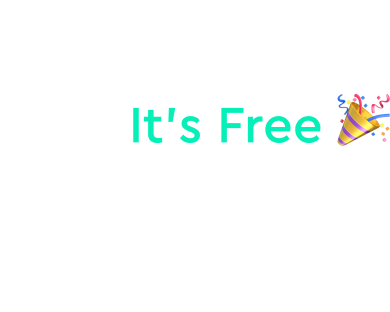
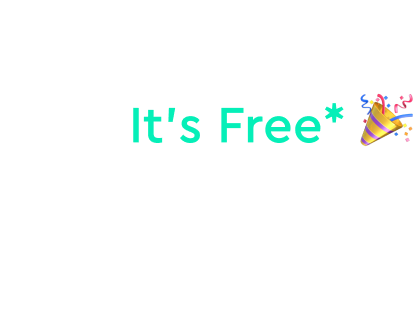
latest changes adeed

Changed region(s): [[0.3077, 0.3173, 0.8308, 0.4615], [0.8615, 0.2885, 1.0, 0.4904]]

diff --git a/resources/js/Pages/feed/AddPost.jsx b/resources/js/Pages/feed/AddPost.jsx
@@ -52,9 +52,8 @@ export default function AddPost({item, text, classes, isEdit, updateState}) {
     const [loading, setLoading] = useState(false);
     const submitPost = (e) => { 
         e && e.preventDefault();
-        
-        if(!rewardImage){
-            toast.error("Please chhose a media image for this post.");
+        if(rewardImage == '' || rewardImage == null){
+            toast.error("Please choose a media image for this post.");
             return false
         }
         setLoading(true);
@@ -116,18 +115,15 @@ export default function AddPost({item, text, classes, isEdit, updateState}) {
                 <GlobalUploader ref={uploaderRef} view={false} type="minimal" sendFile={getfile} options={st.post} />
             </div>
 
-                {/* { rewardImage ? <> */}
-                        <p className="text-grey-500 mb-1 mt-4" >Choose Audience</p>
-                        <div className="flex align-center justify-content-center flex-wrap" >
-                            <select id="countries" defaultValue={item?.for_module} onChange={handleInput} name="for_module" class="form-input  
-                            text-md w-full focus:ring-green-50 block ">
-                                {/* <option value="everyone">Everyone</option> */}
-                                <option value="membership">Memberships</option>
-                                <option value="subscription">Subscription</option>
-                                <option value="support">Supporters</option>
-                            </select>
-                        </div>
-                {/* </> :''  } */}
+                    <p className="text-grey-500 mb-1 mt-4" >Choose Audience</p>
+                    <div className="flex align-center justify-content-center flex-wrap" >
+                        <select id="countries" defaultValue={item?.for_module} onChange={handleInput} name="for_module" class="form-input  
+                        text-md w-full focus:ring-green-50 block ">
+                            <option value="membership">Memberships</option>
+                            <option value="subscription">Subscription</option>
+                            <option value="support">Supporters</option>
+                        </select>
+                    </div>
 
                      <LoaderButton onClick={submitPost}
                         disabled={loading}

diff --git a/resources/js/includes/Footer.jsx b/resources/js/includes/Footer.jsx
@@ -1,10 +1,10 @@
 import React from "react";
-import footlogo from "../../assets/img/footlogo.png";
+import footlogo from "../../assets/img/logo.png";
 import { Link, usePage } from "@inertiajs/react";
 import { Helmet } from "react-helmet";
 import { useEffect } from "react";
 import { LazyLoadImage } from "react-lazy-load-image-component";
-const ContentPrefrences = React.lazy(() => import("./ContentPrefrences"));
+// import spennypiggy from "../../assets/img/logo.png";
 
 export default function Footer(props) {
     
@@ -126,8 +126,8 @@ export default function Footer(props) {
 
                 <div id="footer" className="footer">
                     <div className="containerbox">
-                        <div className="footlogo m-auto d-table">
-                            <LazyLoadImage className="rounded-4 p-2 px-3 blackbg "
+                        <div className="footlogo py-2 m-auto d-table">
+                            <LazyLoadImage className="rounded-4 p-3 blackbg "
                                 alt={"image"}
                                 height={"auto"}
                                 src={footlogo}
@@ -160,7 +160,7 @@ export default function Footer(props) {
                                         <a href="https://blog.spennypiggy.co"> Blog</a>
                                     </li>
                                     <li>
-                                        <Link target="_blank" href="https://www.notion.so/9d23c0290e9d4dcaa3b3511bc67cb30e?v=082ffd064479442e8f11a061aad6c945&pvs=4"> Terms </Link>
+                                        <a target="_blank" href="https://ucarecdn.com/bac24059-121e-4e2c-8867-54f634e11778/terms.pdf"> Terms </a>
                                     </li>
                                     <li>
                                         <Link href={route("promotion-terms")}> Promotion Terms</Link>

diff --git a/resources/css/home.css b/resources/css/home.css
@@ -503,7 +503,8 @@ ul.socialmedia li svg{width:25px !important;height:24px !important;}
 .col-reverse{flex-direction:row-reverse;}
 .livebar p{font-size:18px;text-transform:uppercase;}
 .barouter{width:100%;overflow:hidden;}
-.proud-banner{position:absolute;bottom:0;max-width:180px;}
+.proud-banner{position:absolute;bottom:0; }
+.proud-banner img { max-width:180px;}
 .heroSec{background-position:center center;background-size:cover;}
 .percent-eight{position:absolute;top:50%;left:50%;opacity:0.7;transform:translate(-50%,-50%);}
 .percent-eight-text{position:relative;z-index:1;}
@@ -714,6 +715,24 @@ html body .intercom-lightweight-app-launcher{margin-bottom:70px !important;}
 .e8_tag > div{width:100% !important;border-bottom:0 !important;border-right:0 !important;}
 .videoBg{max-width:100%;height:270px;}
 .wishlistbtn .itsfree-tag{right:0;top:80px;}
+
+.wishlistbtn .itsfree-tag {
+  max-width: 120px;
+}
+.proud-banner {
+  max-width: 88%;
+  justify-content: center;
+}
+
+.proud-banner img {
+  max-width: 120px;
+}
+.proud-banner {
+  align-items: end;
+}
+.proud-banner p {
+  font-size: 12px;
+}
 }
 @media(max-width:575px){
 .wishManage .rts___btn{ font-size:16px; }

diff --git a/resources/js/wishlist/Userprofile.jsx b/resources/js/wishlist/Userprofile.jsx
@@ -48,10 +48,13 @@ export default function Userprofile({ IsloggedIn }) {
                 </div>
                 
 
-                { !IsloggedIn ? user && user.stripe_details_submitted == 1 && 
+                {!IsloggedIn ? user && user.stripe_details_submitted == 1 && 
                     <div>
-                        <SendTip  />
-                        {user && user.role == 1 ? <p className="text-center text-mint" >🐷 {supporters} Supporters</p> : ''}
+                        {user && user.role == 1 ? 
+                        <>
+                            <SendTip  />
+                            {user && user.role == 1 ? <p className="text-center text-mint" >🐷 {supporters} Supporters</p> : ''}
+                        </> : ''}
                     </div>
                     :  
                     <div>

diff --git a/resources/js/Pages/TipJar/MyGoal.jsx b/resources/js/Pages/TipJar/MyGoal.jsx
@@ -25,7 +25,7 @@ export default function MyGoal({goal}) {
         <p className='mb-3 '>Total Earnings</p>
         {/* {goal.days ? <p className='mb-3 text-voilet '>{goal.days > 1 ? `${goal.days} Days` : `${goal.days} Day`} left to goal ends.</p> : ''} */}
         <ProgressBar now={goal?.fullfilled}  max={goal?.target} />
-        <p className='text-muted text-small mt-2' >{getPercentage(goal?.target, goal?.fullfilled)}% of {formatMultiPrice(goal?.target, goal?.currency)} goal.</p>
+        <p className='text-muted text-small mt-2' >{formatMultiPrice(goal?.target, goal?.currency)} earned.</p>
       </div>
     </div>
     </>

diff --git a/resources/js/Pages/home/Hero.jsx b/resources/js/Pages/home/Hero.jsx
@@ -122,7 +122,11 @@ export default function Hero({auth}) {
                   
               </div>
           </div>
-          <img className="proud-banner"  alt={"image"} src={proud}  />
+
+          <div className="proud-banner d-flex  items-center w-full max-w-[500px]" >
+            <img  className='object-contain' alt={"image"} src={proud}  />
+            <p className='text-white ps-4 pb-3' >*Requires a monthly £4 subscription to cover stripe fees & compliance costs.</p>
+          </div>
         </div>
       </div>
     </>

diff --git a/resources/js/Pages/feed/Post.jsx b/resources/js/Pages/feed/Post.jsx
@@ -97,7 +97,7 @@ export default function Post({item, updateState}) {
         : ''}
 
         <div>
-          <p className="description text-dark mt-3 mb-1"><b>{item?.title || ''}</b></p>
+          <p className="description text-dark mt-3 mb-1 pe-5"><b>{item?.title || ''}</b></p>
           <p className="description text-muted">{item?.content || ''}</p>
         </div>
 

diff --git a/resources/views/app.blade.php b/resources/views/app.blade.php
@@ -9,13 +9,13 @@
 
     {!! \App\SeoMeta::render() !!}
     
-    <meta property="twitter:card" content="summary_large_image" />
+    {{-- <meta property="twitter:card" content="summary_large_image" />
     <meta property="twitter:title" content="Exclusive Content, Memberships & More!" />
-    <meta property="twitter:description" content="Send tributes, adopt bills & more. Safe for Spicy Creators who receive 100% payouts!" />
+    <meta property="twitter:description" content="Join Memberships, adopt bills & more. Safe for all Creators who receive 100% payouts!" />
     <meta property="twitter:image" content="{{ URL::asset('/siteicon.png') }}" />
     <meta property="twitter:site" content="@spennypiggy" />
     <meta property="twitter:image:alt" content="Exclusive Content, Memberships & More!" />
-    <meta property="twitter:image:src" content="{{ URL::asset('/siteicon.png') }}" />
+    <meta property="twitter:image:src" content="{{ URL::asset('/siteicon.png') }}" /> --}}
 
     <link rel="canonical" href="https://spennypiggy.co" />
     <meta name="viewport" content="width=device-width,initial-scale=1" />
@@ -65,7 +65,75 @@
             }
         }
     </script>
-    
+  
+  <script async type="application/ld+json">
+    {
+      "@context": "https://schema.org",
+      "@type": "Organization",
+      "name": "Spenny Piggy",
+      "alternateName": "Exclusive Content, Memberships & More!",
+      "url": "https://spennypiggy.co/",
+      "logo": "https://d36ape3u423eoo.cloudfront.net/329a3236-4b42-40ed-abf7-61da55dbcb22/build/assets/logo-164abf9b.png",
+      "sameAs": [
+        "https://www.facebook.com/spennypiggy",
+        "https://twitter.com/spennypiggy",
+        "https://www.instagram.com/spennypiggy/",
+        "https://blog.spennypiggy.co/"
+      ]
+    }
+    </script>
+  <script async type="application/ld+json">
+          {
+          "@context":"http://schema.org",
+          "@type":"SiteNavigationElement",
+          "name":["Exclusive Content, Memberships & More!"],
+          "url":["https://spennypiggy.co/",
+          "https://intercom.help/spenny-piggy/en/",
+          "https://spennypiggy.co/login",
+          "https://spennypiggy.co/leaderboard",
+          "https://spennypiggy.co/discover",
+          "https://uk.spennypiggy.co/register"]
+          }
+        </script>
+        <script async type="application/ld+json">
+            {
+            "@context": "https://schema.org",
+            "@type": "FAQPage",
+            "mainEntity": [
+                {
+                    "@type": "Question",
+                    "name": "What is Spenny Piggy?",
+                    "acceptedAnswer": {
+                    "@type": "Answer",
+                    "text": "Spenny Piggy is your one-stop party platform for every type of creator out there! Get those financial love taps, whip up a wishlist, dish out free and exclusive goodies, and even roll out bespoke memberships and custom commissions. It's the ultimate creator playground! 🚀"
+                    }
+                }, {
+                    "@type": "Question",
+                    "name": "How do I get paid?",
+                    "acceptedAnswer": {
+                    "@type": "Answer",
+                    "text": "Bag those bucks effortlessly with automatic Stripe payments! Your payment dashboard lets you be the money maestro, changing payout details on a whim. Initial payouts may take 7-14 days but are usually quick. In the United States/Aus, it's a snappy 2-day roll—charge Monday, party Wednesday. UK/European pals, enjoy a slick 7-day roll—the Monday magic. Keep in mind, payout dates may change based on your account status. If in doubt, reach out to Stripe and us for help! 💰"
+                    }
+                }, {
+                    "@type": "Question",
+                    "name": "How much does it cost?",
+                    "acceptedAnswer": {
+                    "@type": "Answer",
+                    "text": "Creators, listen up! The best part? It won't cost you a dime! You pocket the whole 100%. Sure, there might be some tiny conversion costs, but fear not—US, CAD, and UK creators, you're in the clear! Now, here's the scoop for Supporters: there's a service fee, starting at just 8%. But, for those creators craving extra perks, drop £29.99 per month for exclusive features and no service fees for supporters. They just handle the processing fees, making each transaction way cheaper. More money in your pocket, less in fees—win-win! 💸"
+                    }
+                }, 
+                {
+                "@type": "Question",
+                "name": "What currencies do you offer?",
+                "acceptedAnswer": {
+                "@type": "Answer",
+                    "text": "Pick your currency! Creators, you've got the choice between USD or GBP. If you're based in the UK, GBP; for the rest of the world, USD is the go-to. Customize your display currency, and supporters can do the same when making payments. Keeping it simple for everyone! 💲"
+                }
+                }
+            ]
+            }
+        </script> 
+
     {{-- @laravelPWA --}}
     @routes
     @viteReactRefresh
